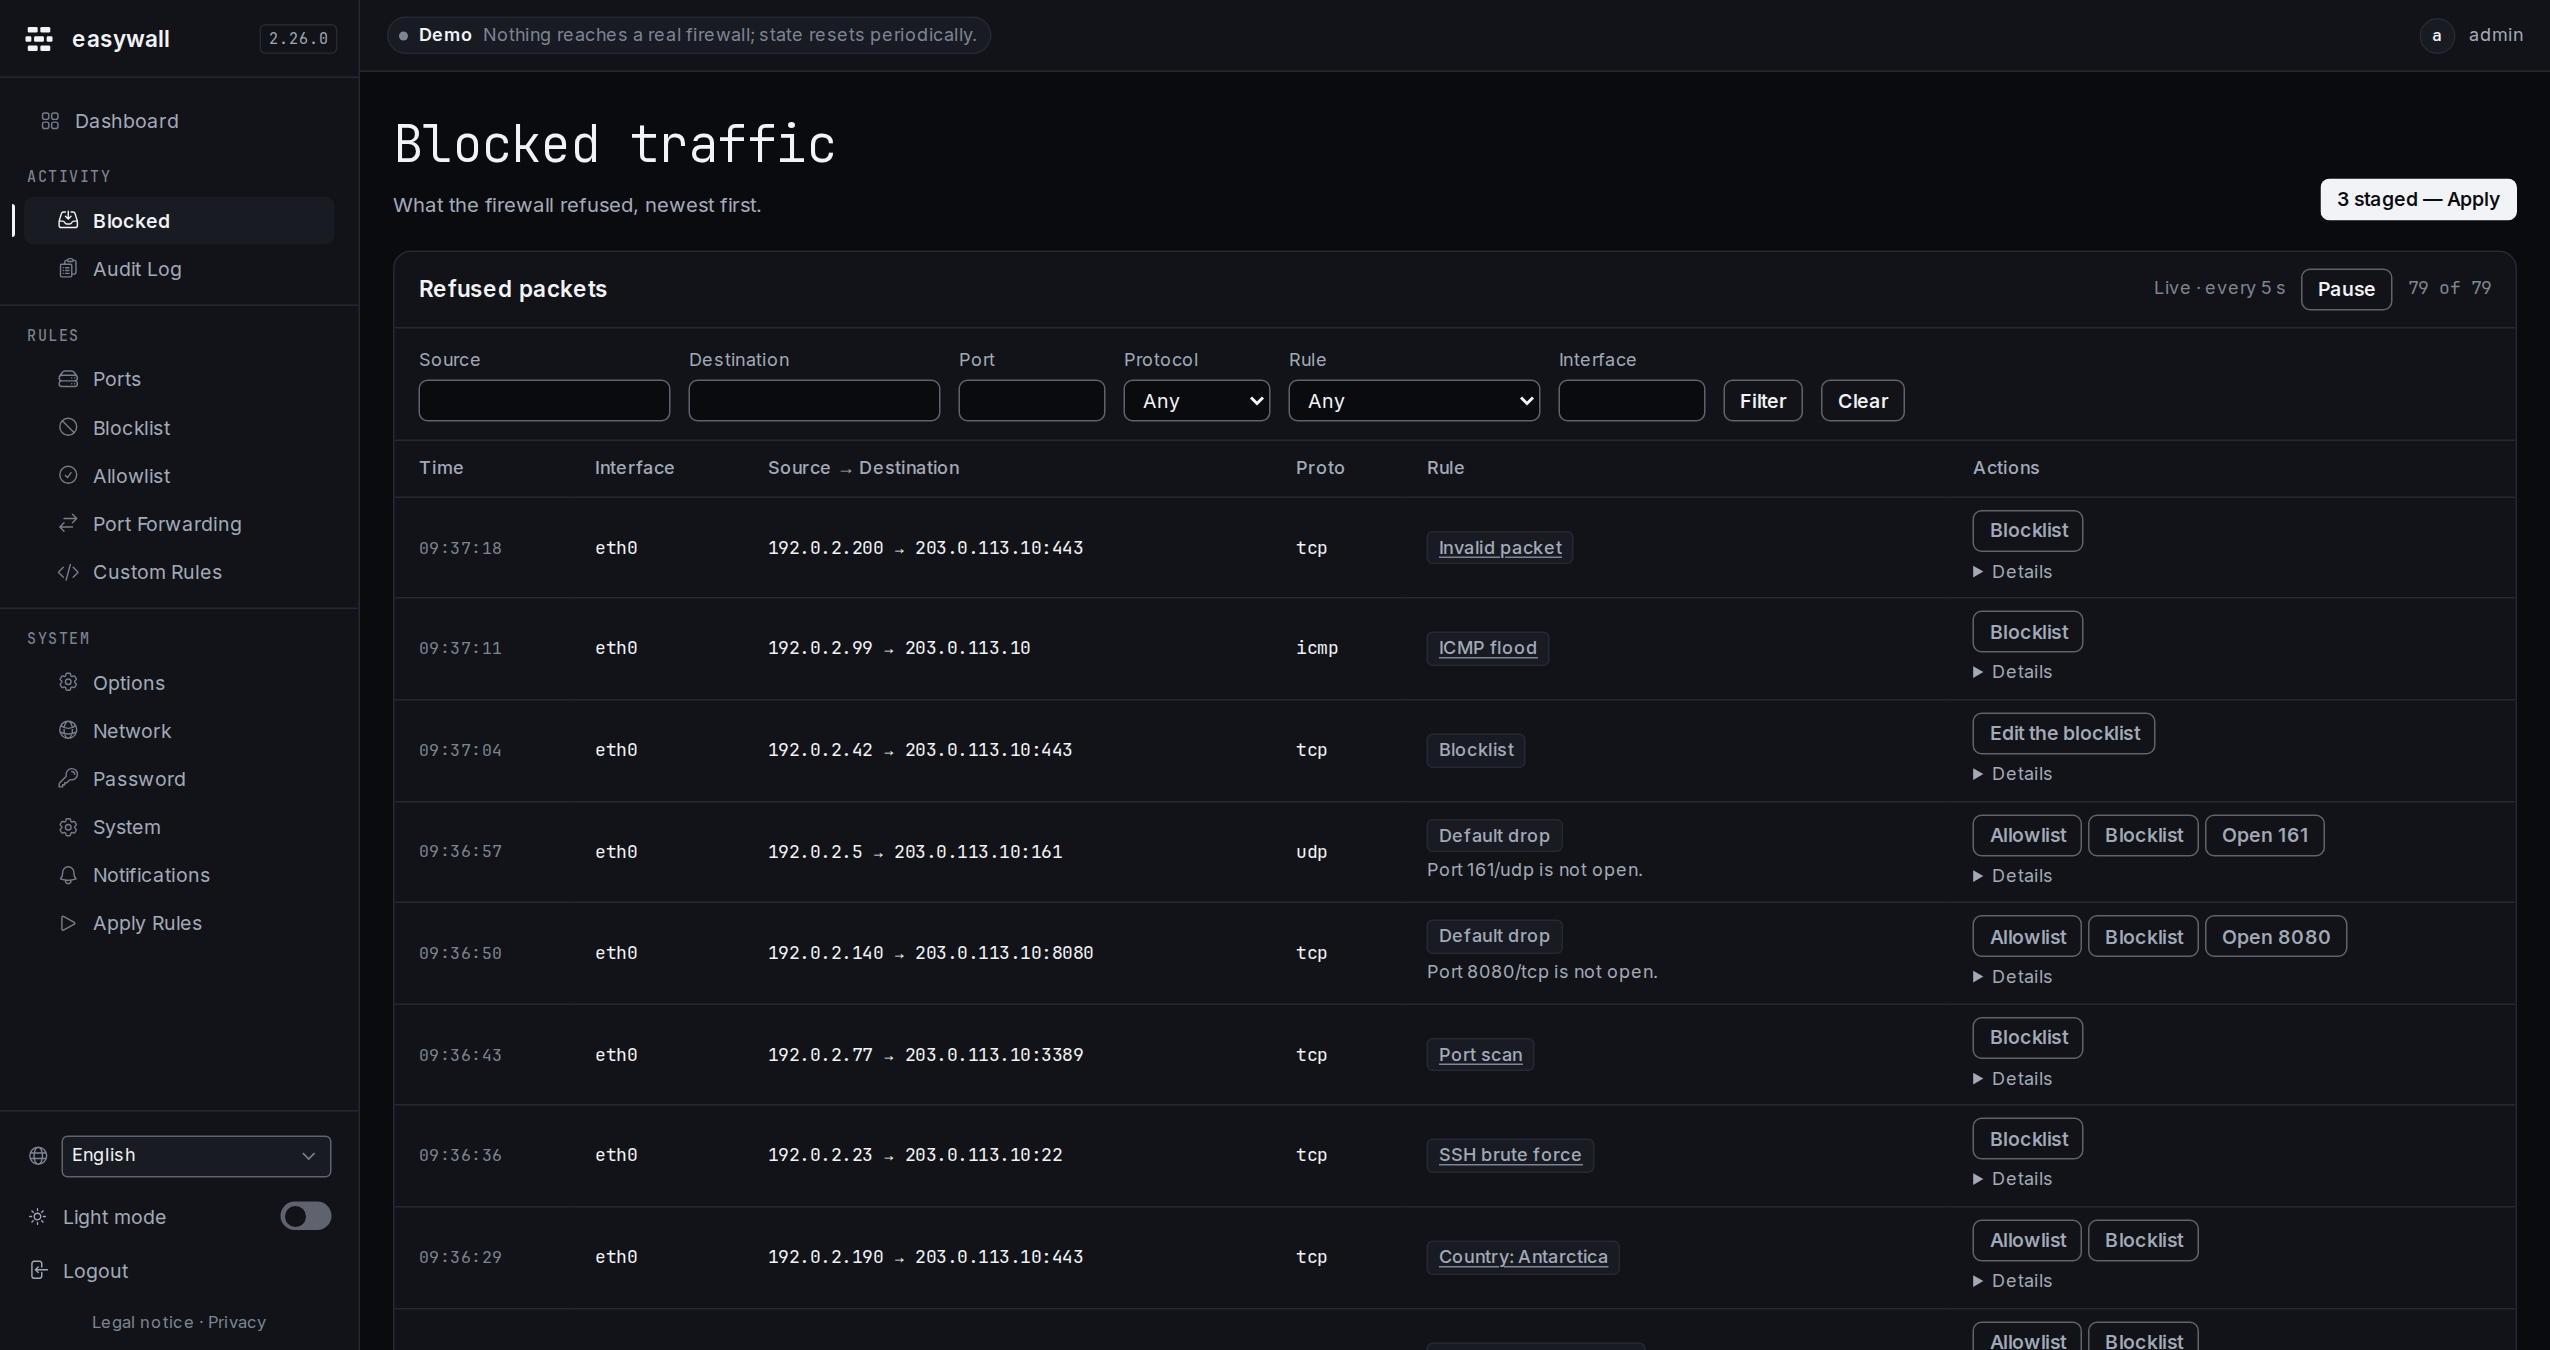
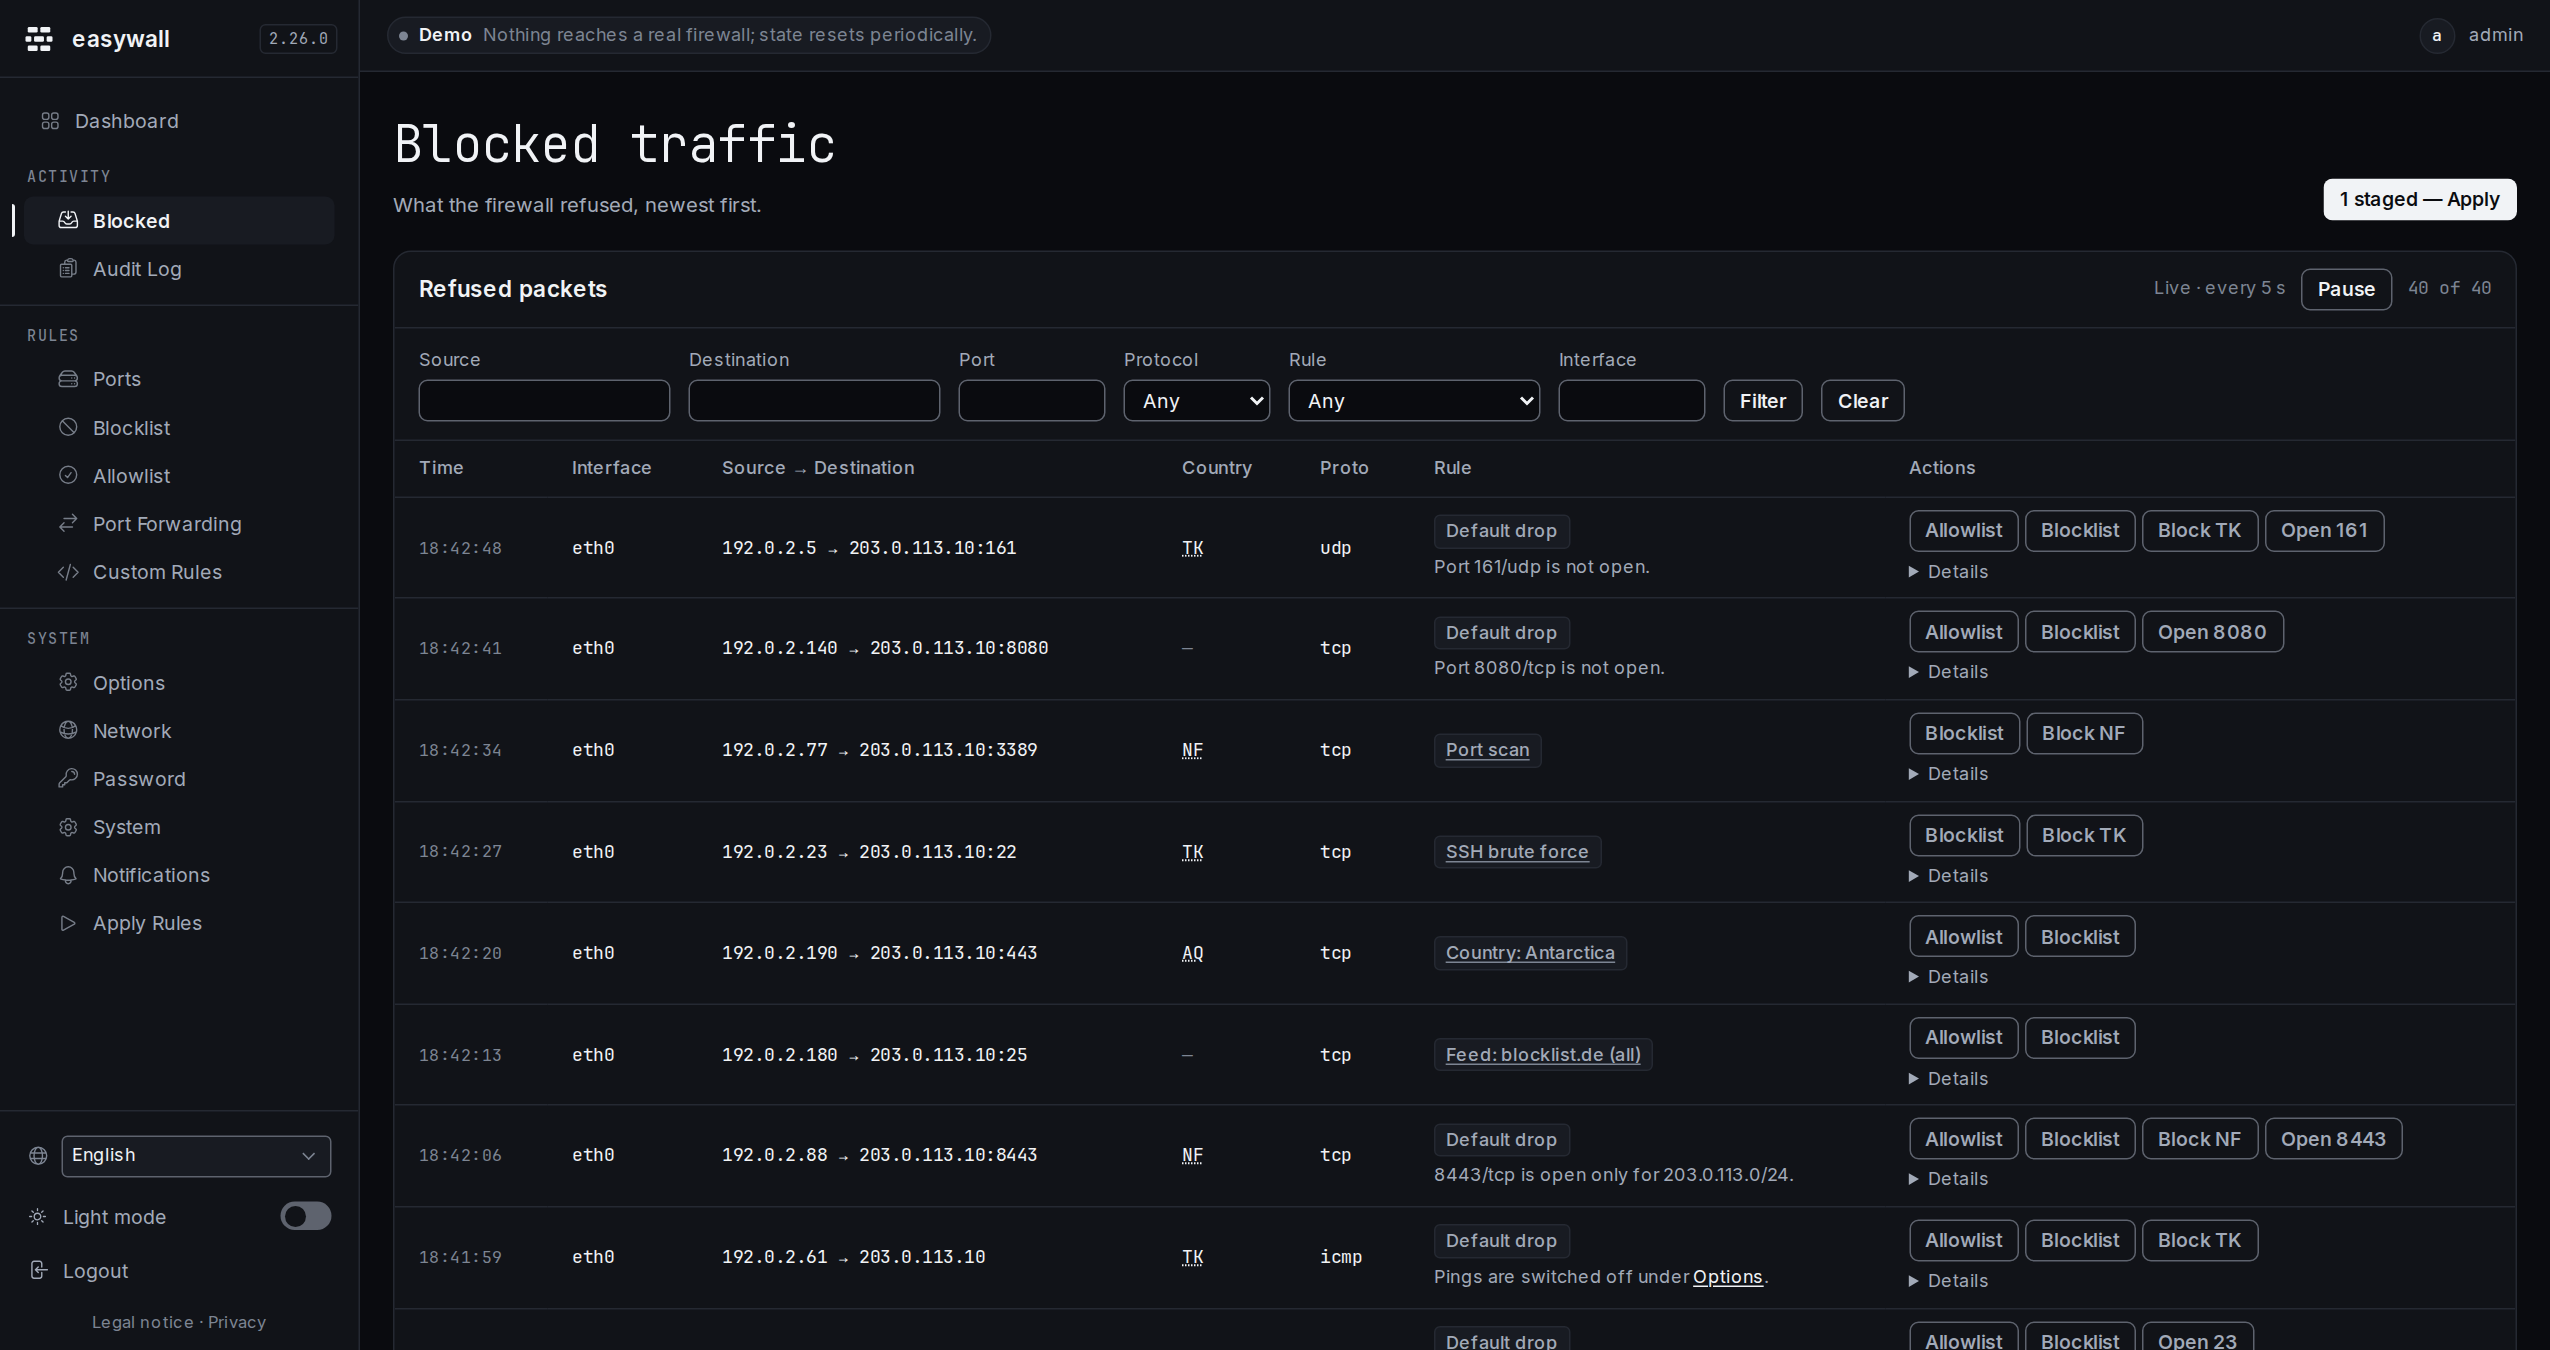
feat(demo): the country column from a table of its own; check:ui and the screenshots
Claude-Session: https://claude.ai/code/session_01VdAX68mvVq9BDDXfadTYpK

diff --git a/internal/web/democlient.go b/internal/web/democlient.go
@@ -41,6 +41,41 @@ var demoShapes = []shared.PacketLogEntry{
 	{Rule: "feed", Feed: "country-aq", Proto: "tcp", DstPort: 443, TCPFlags: "SYN", CtState: "new", Src: netip.MustParseAddr("192.0.2.190")},
 }
 
+// demoCountries is the demo's country table (2.27): the demo fetches nothing,
+// and its sources are documentation addresses, which belong to no country.
+// So it names three that single out no country of people — Antarctica and two
+// of the least populated places ipverse lists — and leaves the rest unnamed,
+// so the dash shows too. 192.0.2.190 is the packet Antarctica's feed refused,
+// and it reads AQ; Antarctica is switched on, so its rows offer no Block.
+var demoCountries = []struct{ prefix, cc string }{
+	{"192.0.2.0/26", "tk"},   // .5 .23 .42 .61 — Tokelau
+	{"192.0.2.64/26", "nf"},  // .77 .88 .99 — Norfolk Island
+	{"192.0.2.184/29", "aq"}, // .190 — Antarctica
+	{"2001:db8:5::/48", "aq"},
+}
+
+func demoCountryTable() *countryTable {
+	var v4, v6 []countryPrefix
+	for _, d := range demoCountries {
+		p := netip.MustParsePrefix(d.prefix)
+		r := newCountryPrefix(p, uint8(slices.Index(shared.CountryCodes, d.cc))) // #nosec G115 -- TestCountryCodesFitAByte
+		if p.Addr().Is4() {
+			v4 = append(v4, r)
+		} else {
+			v6 = append(v6, r)
+		}
+	}
+	return &countryTable{v4: buildCountryRanges(v4), v6: buildCountryRanges(v6), countries: 3}
+}
+
+// newDemoCountryLookup is the demo's lookup: its table, loaded, and no client
+// — the demo makes no outbound request, and builds no runner to call refresh.
+func newDemoCountryLookup(store *feedStore) *countryLookup {
+	l := &countryLookup{store: store, now: time.Now}
+	l.table.Store(demoCountryTable())
+	return l
+}
+
 // demoEvery is how often the demo "refuses" something new — enough for the
 // live tail to visibly move while someone looks at it.
 const demoEvery = 7 * time.Second
@@ -609,6 +644,8 @@ func newDemoFeedStore(now time.Time) *feedStore {
 			"cins": {Status: FeedFailedNoCopy, LastError: feedErrHTTPStatus, HTTPStatus: 503,
 				Failures: 2, LastAttempt: ago(50 * time.Minute)},
 			"country-aq": {Status: FeedUnchanged, LastAttempt: ago(5 * time.Hour)},
+			// The country lookup's line on /blocked: checked, unchanged.
+			countryLookupKey: {Status: FeedUnchanged, LastAttempt: ago(3 * time.Hour)},
 		},
 		// No user and no password: nothing a visitor could read back.
 		Own: [shared.MaxOwnFeeds]OwnFeed{{Name: "CrowdSec Raw IP List",

diff --git a/internal/web/democlient_countries_test.go b/internal/web/democlient_countries_test.go
@@ -1,0 +1,47 @@
+package web
+
+import (
+	"testing"
+
+	"github.com/jp1337/easywall/internal/shared"
+)
+
+// The demo shows the country column from its own table and fetches nothing
+// (2.27): no runner, no client. The packet Antarctica's feed refused reads
+// AQ, and at least one row offers Block for a country not switched on.
+func TestTheDemoNamesCountriesFromItsOwnTable(t *testing.T) {
+	fc := newFakeCore(t)
+	s := newTestServer(t, fc)
+	s.cfg.DemoMode = true
+	for _, on := range []bool{false, true} {
+		s.cfg.CountryLookup = on
+		demo, err := NewServer(s.cfg)
+		if err != nil {
+			t.Fatalf("NewServer: %v", err)
+		}
+		defer demo.Stop()
+		if got := demo.lookup != nil; got != on {
+			t.Fatalf("country_lookup = %v: the demo built a lookup = %v", on, got)
+		}
+		if !on {
+			continue
+		}
+		if demo.feeds != nil || demo.lookup.http != nil {
+			t.Fatal("the demo's lookup could fetch")
+		}
+		named, offered := 0, false
+		for _, e := range demoShapes {
+			cc := demo.lookup.country(e.Src)
+			if want, ok := shared.CountryCode(e.Feed); ok && cc != want {
+				t.Errorf("%s was refused by %s and reads %q", e.Src, e.Feed, cc)
+			}
+			if cc != "" {
+				named++
+				offered = offered || cc != "aq"
+			}
+		}
+		if named < 3 || !offered || !demo.lookup.status().Loaded {
+			t.Errorf("%d demo sources named, a Block offered = %v; want the column to have something to show", named, offered)
+		}
+	}
+}

diff --git a/internal/web/server.go b/internal/web/server.go
@@ -363,7 +363,10 @@ func NewServer(cfg *Config) (*Server, error) {
 		s.feeds = newFeedRunner(client, s.feedStore)
 		s.feedStop = make(chan struct{})
 	}
-	if cfg.CountryLookup && !cfg.DemoMode {
+	switch {
+	case cfg.CountryLookup && cfg.DemoMode:
+		s.lookup = newDemoCountryLookup(s.feedStore)
+	case cfg.CountryLookup:
 		s.lookup = newCountryLookup(cfg.CountryTablePath(), s.feedStore)
 		s.feeds.lookup = s.lookup
 	}
